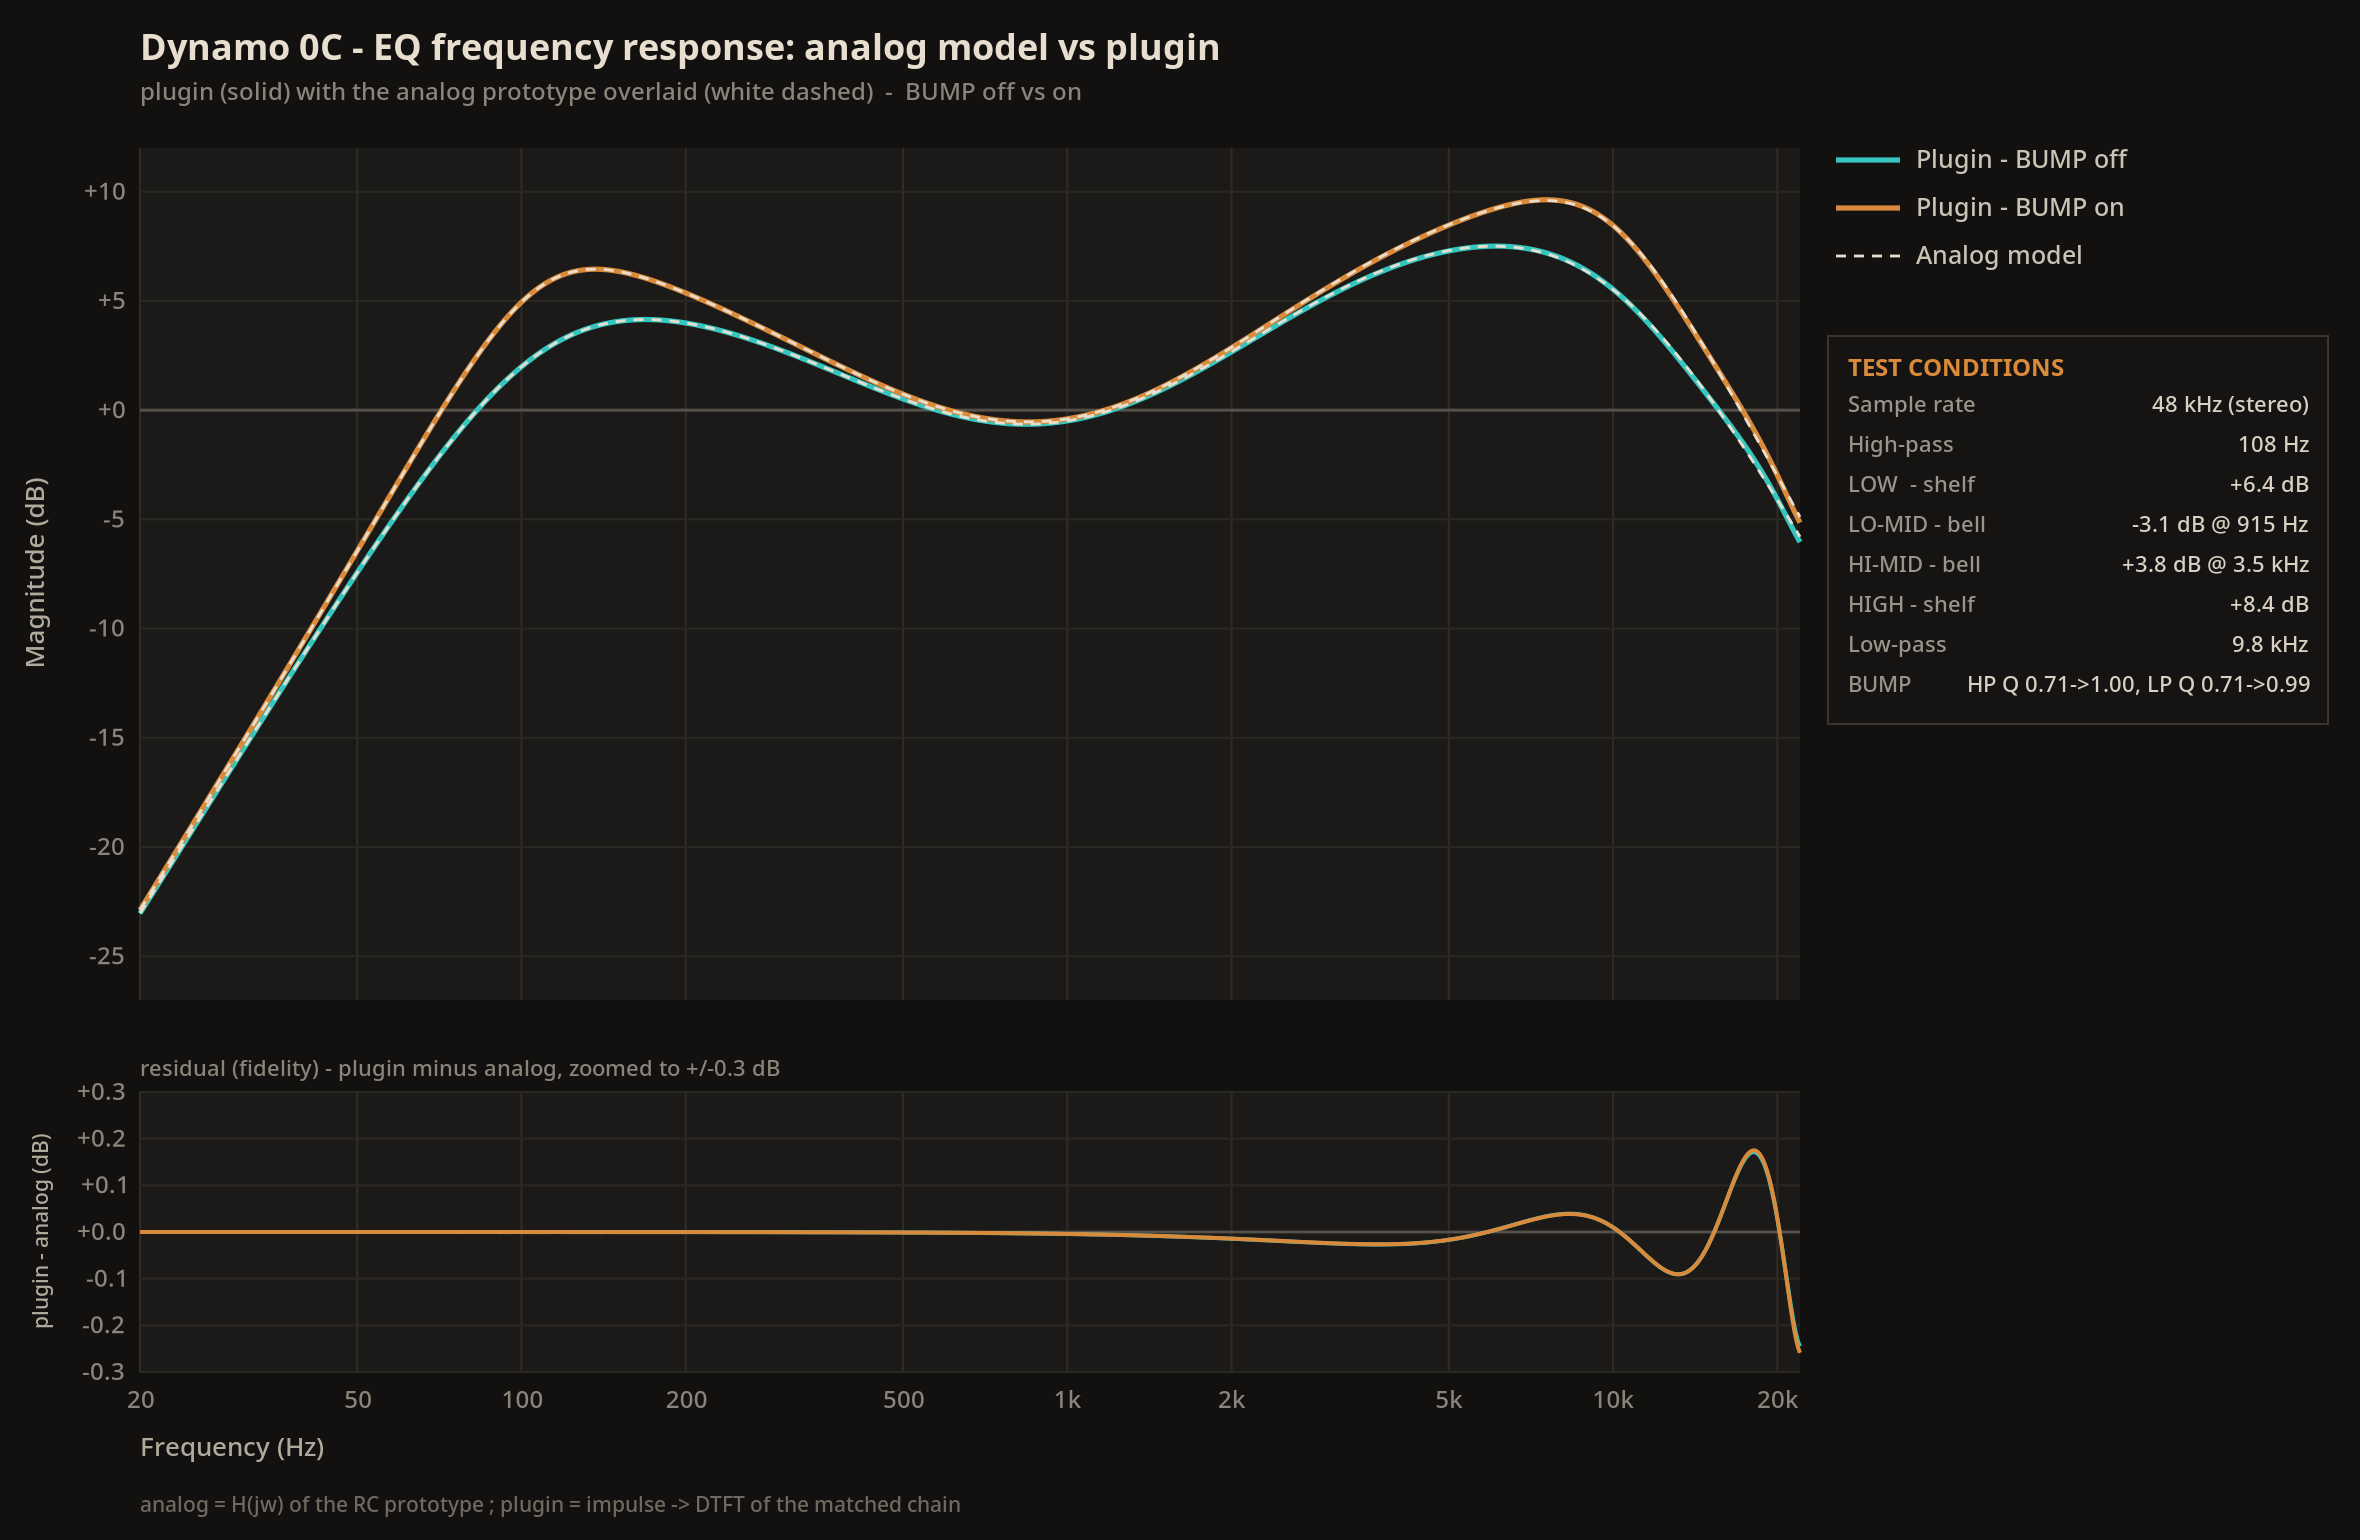
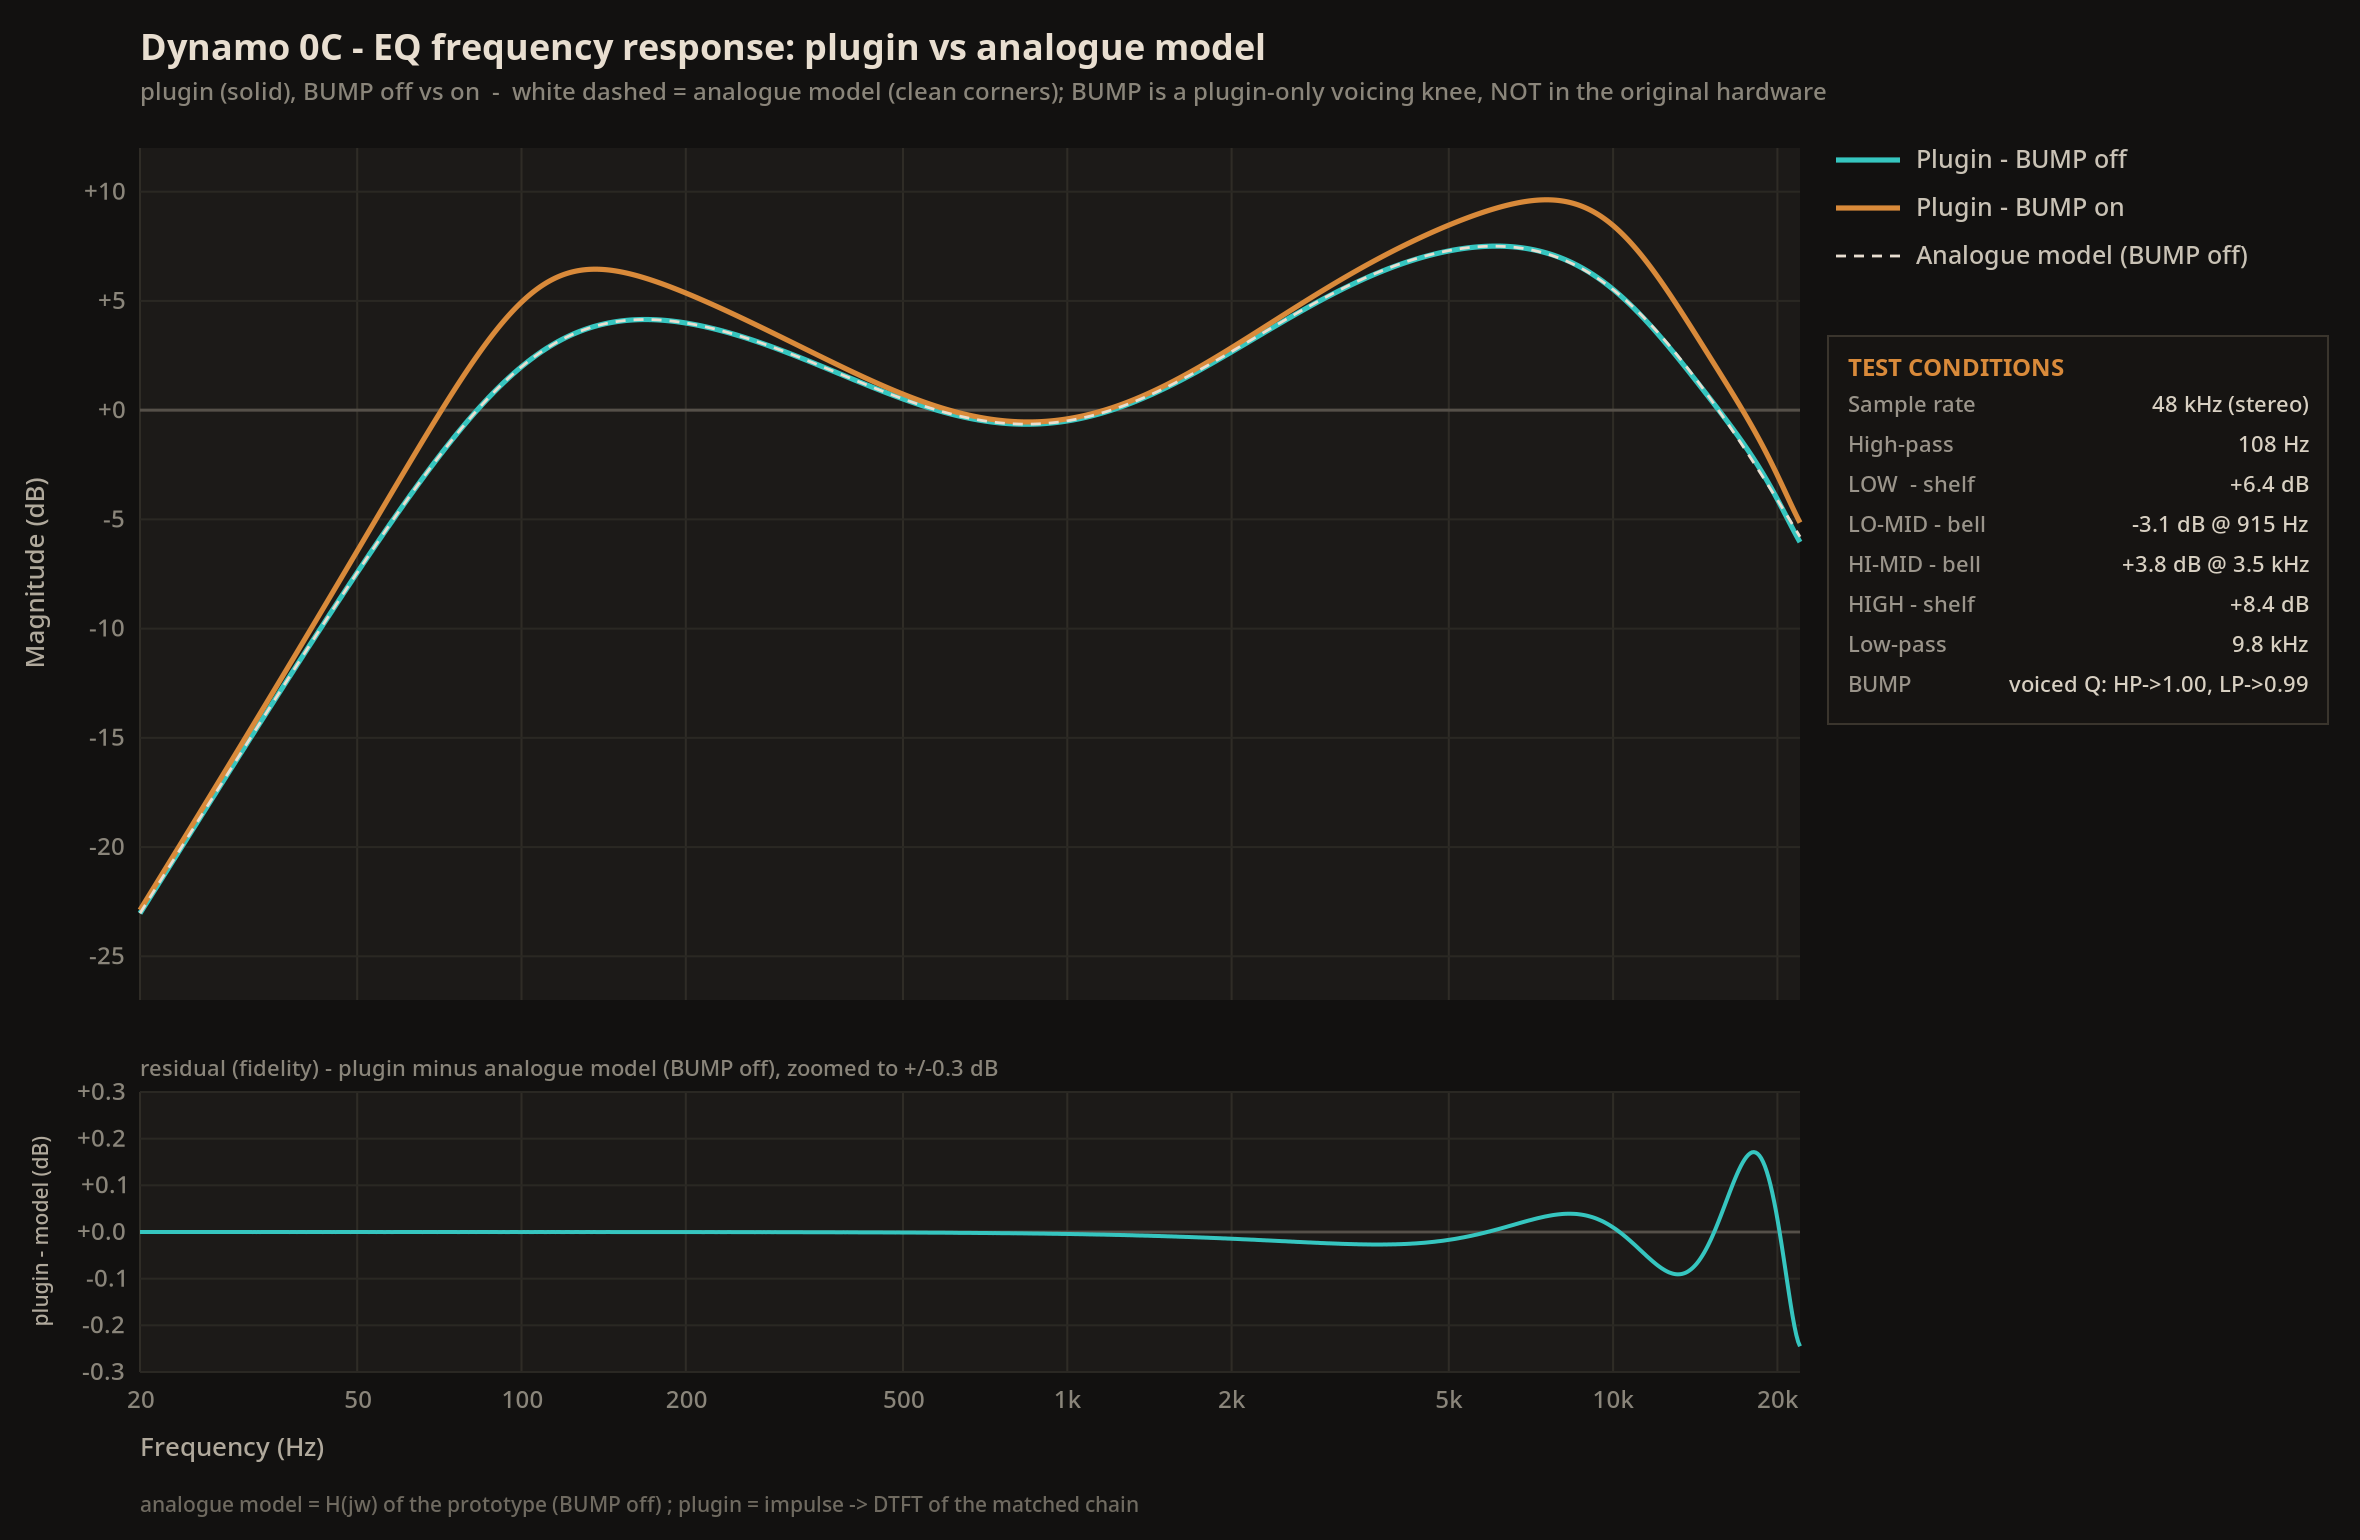
readme/chart: clarify BUMP is a plugin-only voicing option, not part of the modelled hardware
The frequency-response chart now draws the analogue-model reference (white dashed)
only for the clean state, and the BUMP curve stands on its own. Wording in the
README and the dsp.h comment make clear the corner resonance is a deliberate voicing
choice added by the plugin — the modelled unit's filter corners are flat.

🤖 Generated with [Claude Code](https://claude.com/claude-code)

diff --git a/dsp.h b/dsp.h
@@ -33,8 +33,10 @@
 /* number of elements in a static array (so table lengths aren't hard-coded by hand) */
 #define ZC_ARRLEN(a) ((int)(sizeof(a) / sizeof((a)[0])))
 
-/* high-pass Q per the BUMP button: 0.707 = flat Butterworth (no peak); ZC_HP_Q (measured,
- * ~1.0) = the slight resonance of the original circuit that boosts ~+1.5 dB just above the cutoff. */
+/* high-pass Q per the BUMP button: 0.707 = flat Butterworth (no peak); ZC_HP_Q (~1.0) is a
+ * deliberate VOICING choice — a gentle resonant lift (~+1.5 dB) just above the corner, in the
+ * spirit of a console filter knee. It is hand-set, NOT part of the modelled hardware (whose
+ * filter corners are flat); same for ZC_LP_Q_RESONANT on the low-pass. */
 #define ZC_HP_Q_FLAT 0.70710678118654752
 
 /* ----------------------------------------------------------------- interpolation */

diff --git a/README.md b/README.md
@@ -29,12 +29,19 @@ the top the way a naïve digital EQ does. The whole thing is voiced to feel like
 turning knobs on a desk rather than dialling numbers into a plugin: smooth,
 forgiving, hard to make sound harsh.
 
-<p align="center"><img src="assets/images/eq_response.png" alt="Dynamo 0C frequency response — plugin vs analogue model, BUMP off and on" width="720"></p>
+<p align="center"><img src="assets/images/eq_response.png" alt="Dynamo 0C frequency response — plugin vs analogue model (clean), with BUMP shown as a voiced knee" width="720"></p>
 
 The curve above is a full EQ pass with the high-pass and low-pass filters engaged.
-The plugin (solid) sits right on top of the analogue prototype it's modelled on
-(dashed) — they agree to well under 0.3&nbsp;dB across the whole spectrum — and the
-**BUMP** switch adds the resonant knee you can see at the two filter corners.
+The plugin (solid) sits right on top of the analogue model it's built from (white
+dashed) — they agree to well under 0.3&nbsp;dB across the whole spectrum. Notice the
+dashed reference is drawn only for the clean state: the modelled circuit's filter
+corners are flat.
+
+The **BUMP** switch adds the resonant knee you can see at the two filter corners
+(the orange curve). This is a **plugin-only voicing option, not part of the original
+hardware** — the modelled unit has no such corner resonance. BUMP is just a gentle
+extra lift for when you want a little more punch and edge; leave it off for the
+faithful, clean response.
 
 ### The four bands
 